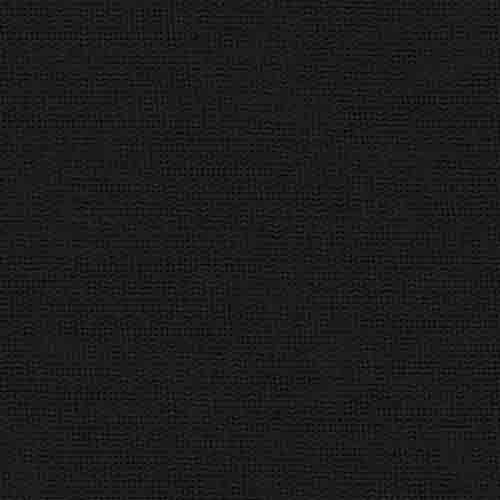
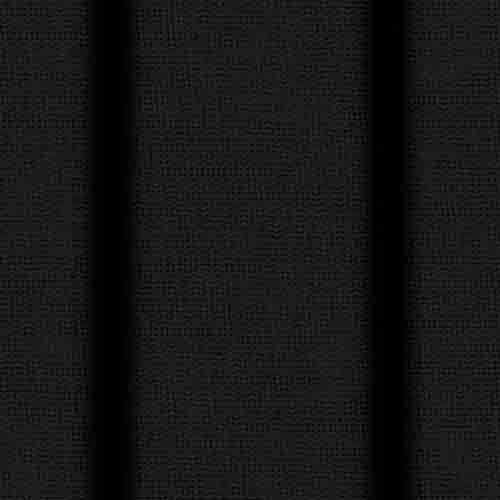
placeholder gallery

Changed region(s): [[0.18, 0.0, 0.27, 1.0], [0.72, 0.0, 0.84, 1.0]]

diff --git a/css/main.css b/css/main.css
@@ -165,6 +165,10 @@ body{
 	width: 100%;
 }
 
+.billboard div {
+	max-width: 1000px;
+}
+
 .welcome {
 	top: -1em;
 	position: absolute;
@@ -338,11 +342,17 @@ body{
 	width: 100%;
 	overflow: hidden;
 }
+.galleria {
+	width: 100%;
+	height: 20em;
+	margin: 2em 0;
+}
 /*============================================================================*/
 /*================================PANEL PICKER================================*/
 /*============================================================================*/
 .hat-area {
-
+	max-width: 1000px;
+	margin: 0 auto;
 }
 .panel-picker {
 
@@ -459,12 +469,6 @@ body{
 /*============================================================================*/
 /*==================================FOOTER====================================*/
 /*============================================================================*/
-
-
-/*.style {
-	display: none;
-}*/
-
 
 
 

diff --git a/js/picker.js b/js/picker.js
@@ -35,7 +35,12 @@ $swatch.on('click', 'a', function (e) {
 
 	$5panel.find('.js-currentPanel').attr('style', 'fill: url(' + $swatchId + ')').attr('data-colour', $swatchColour);
 
-	if ($brim.attr('data-colour') != 'none' && $topLeft.attr('data-colour') != 'none' && $topRight.attr('data-colour') != 'none' && $sideLeft.attr('data-colour') != 'none' && $sideRight.attr('data-colour') != 'none' && $front.attr('data-colour') != 'none') {
+	if ($brim.attr('data-colour') != 'none'
+		&& $topLeft.attr('data-colour') != 'none'
+		&& $topRight.attr('data-colour') != 'none'
+		&& $sideLeft.attr('data-colour') != 'none'
+		&& $sideRight.attr('data-colour') != 'none'
+		&& $front.attr('data-colour') != 'none') {
 		console.log('brim: ' + $brim.attr('data-colour'));
 		console.log('top-left: ' + $topLeft.attr('data-colour'));
 		console.log('top-right: ' + $topRight.attr('data-colour'));

diff --git a/home.html b/home.html
@@ -42,8 +42,12 @@
 	</div><!--billboard end-->
 
 	<div class="hat-area grid">
-		<div class="stage unit unit-s-1">
+		<div class="stage unit unit-s-1 galleria">
 
+			<img src="img/pattern-1.jpg">
+			<img src="img/pattern-2.jpg">
+			<img src="img/pattern-3.jpg">
+			<img src="img/pattern-4.jpg">
 		</div><!--stage end-->
 
 		<div class="panel-picker unit unit-xs-1 unit-s-1-2">
@@ -206,6 +210,7 @@
 	<script src="js/tabs.js"></script>
 	<script src="js/picker.js"></script>
 	<script src="galleria/galleria-1.4.2.min.js"></script>
+	<script src="js/main.js"></script>
 
 </body>
 </html>

diff --git a/js/main.js b/js/main.js
@@ -1,0 +1,2 @@
+Galleria.loadTheme('galleria/themes/classic/galleria.classic.min.js');
+Galleria.run('.galleria');
